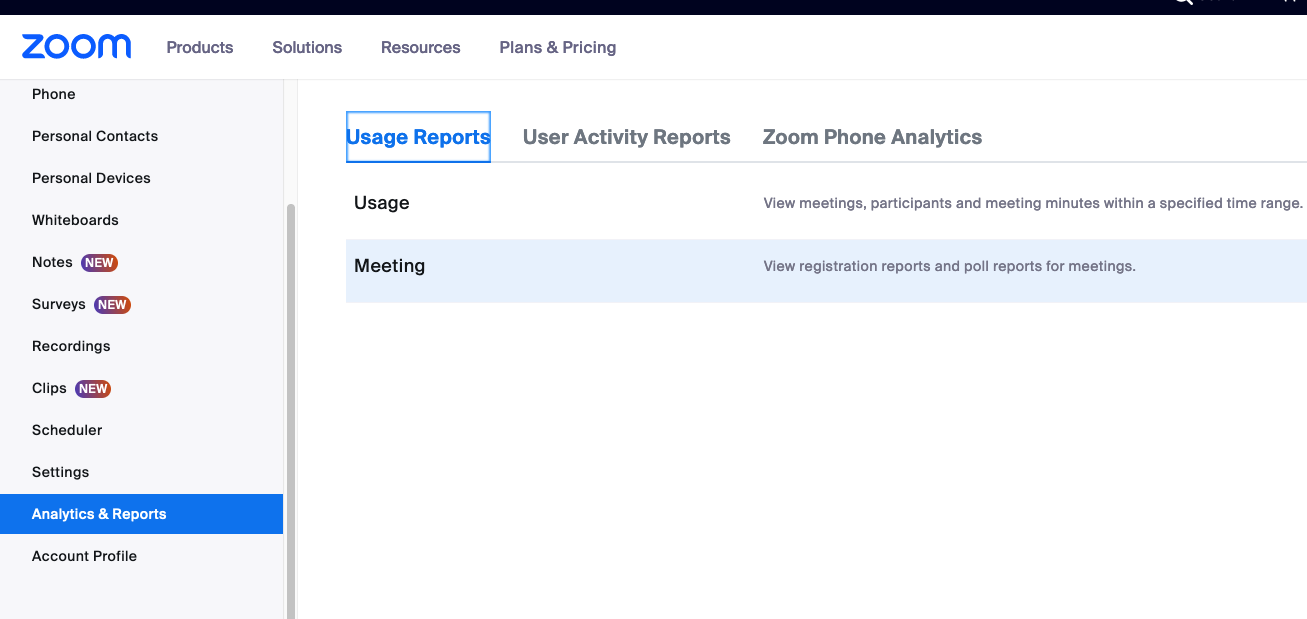
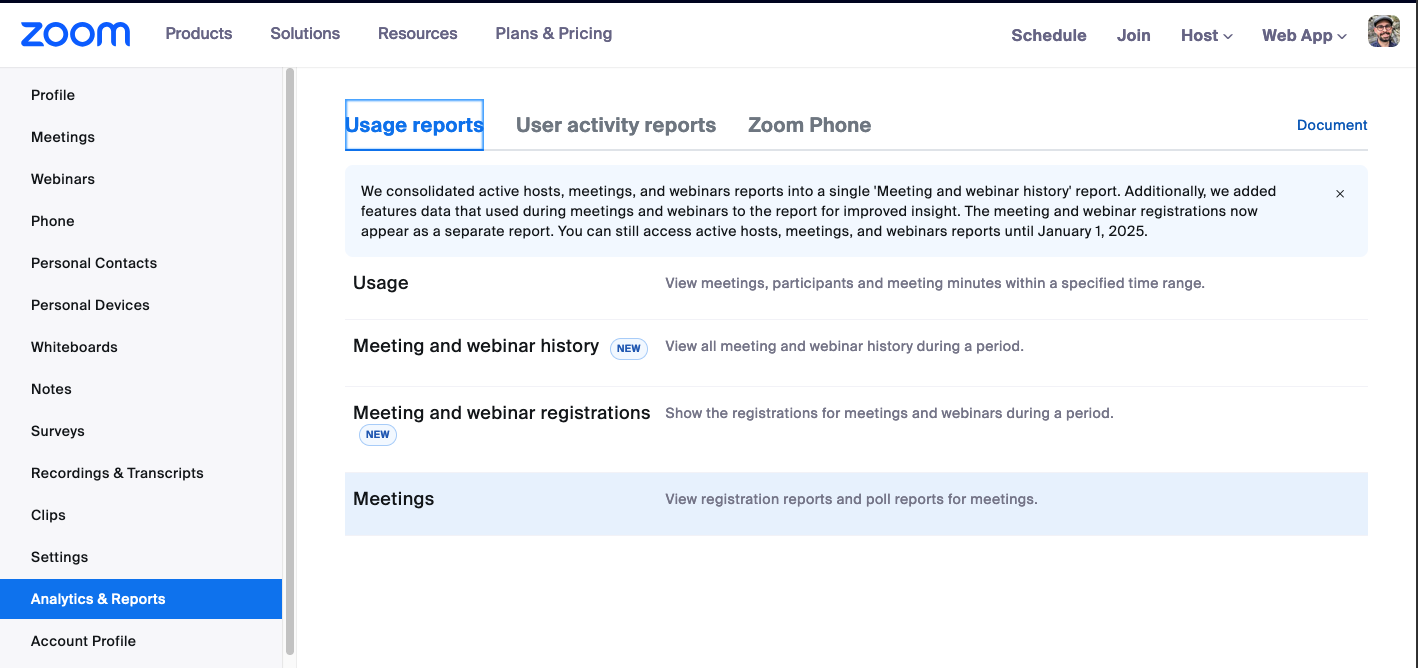
Built site for gh-pages

diff --git a/workshops.html b/workshops.html
@@ -429,7 +429,7 @@ ul.task-list li input[type="checkbox"] {
 
 <section id="task-list" class="level2" data-number="20.1">
 <h2 data-number="20.1" class="anchored" data-anchor-id="task-list"><span class="header-section-number">20.1</span> Task list</h2>
-<p>To get started creating a workshop, create a new issue on GitHub in the cct-datascience/organization repo using the Workshop Tasks issue template. <!--# Shoul this instead by in the CALS-workshops repo? -->This will give you specific tasks to complete. Refer to this document for more detailed instructions on specific tasks.</p>
+<p>To get started creating a workshop, create a new issue on GitHub in the <a href="https://github.com/cct-datascience/organization/issues">cct-datascience/organization</a> repo using the Workshop Tasks issue template. This will give you specific tasks to complete. Refer to this document for more detailed instructions on specific tasks.</p>
 </section>
 <section id="before-the-workshop" class="level2" data-number="20.2">
 <h2 data-number="20.2" class="anchored" data-anchor-id="before-the-workshop"><span class="header-section-number">20.2</span> Before the Workshop</h2>
@@ -608,7 +608,7 @@ Tip
 <li><p>Choose the meeting “Meeting Report” tab and filter the dates to include your workshop. Click the “generate” button next to your workshop</p>
 <p><img src="img/zoom_meeting_report2.png" class="img-fluid"></p></li>
 <li><p>In the “Report Queue”, click the “Download” button next to your workshop to get a .csv file with registrant information</p></li>
-<li><p>Copy the registrants information to <a href="https://docs.google.com/spreadsheets/d/1SU8Wtx7Ku1IMv8DOAU-37E12-AZP0CjnRy1vPSkmNGQ/edit#gid=0">this google sheet</a>.</p></li>
+<li><p>Drop this .csv file into the <a href="https://drive.google.com/drive/u/0/folders/1DOVUhsCiW-nE-6q3ehsjBEYulzt_l4Pl">registration reports folder</a> on our Google Drive.</p></li>
 </ol></li>
 <li>Usage report
 <ol type="1">
@@ -618,9 +618,9 @@ Tip
 <p><img src="img/zoom_usage_report.png" class="img-fluid"></p></li>
 <li><p>Check the “Show unique users” box and click “Export” to download a csv file showing who actually attended the workshop and how long they stayed.</p>
 <p><img src="img/zoom_usage_report2.png" class="img-fluid"></p></li>
-<li><p>Add the usage information to <a href="https://docs.google.com/spreadsheets/d/15E5JDNiVr9aCWYE4iFSirvwzdllLtWEEZAwYi3_TScE/edit">this google sheet</a>.</p></li>
+<li><p>Drop the .csv file in the <a href="https://drive.google.com/drive/u/0/folders/1E3LuHI1jTm22cz7xXAjScMkQcMupuH8M">usage reports</a> folder on Google Drive.</p></li>
 </ol></li>
-<li>“Import” (manually enter) list of registrants who opt into the mailing list to <a href="./outreach-communication.html#listserv">Emma</a>.</li>
+<li>Add registrants to our mailing list if they opted in <!--# TODO: link to new stuff about trellis --></li>
 </ul>
 </section>
 <section id="post-workshop-survey" class="level3" data-number="20.4.4">
